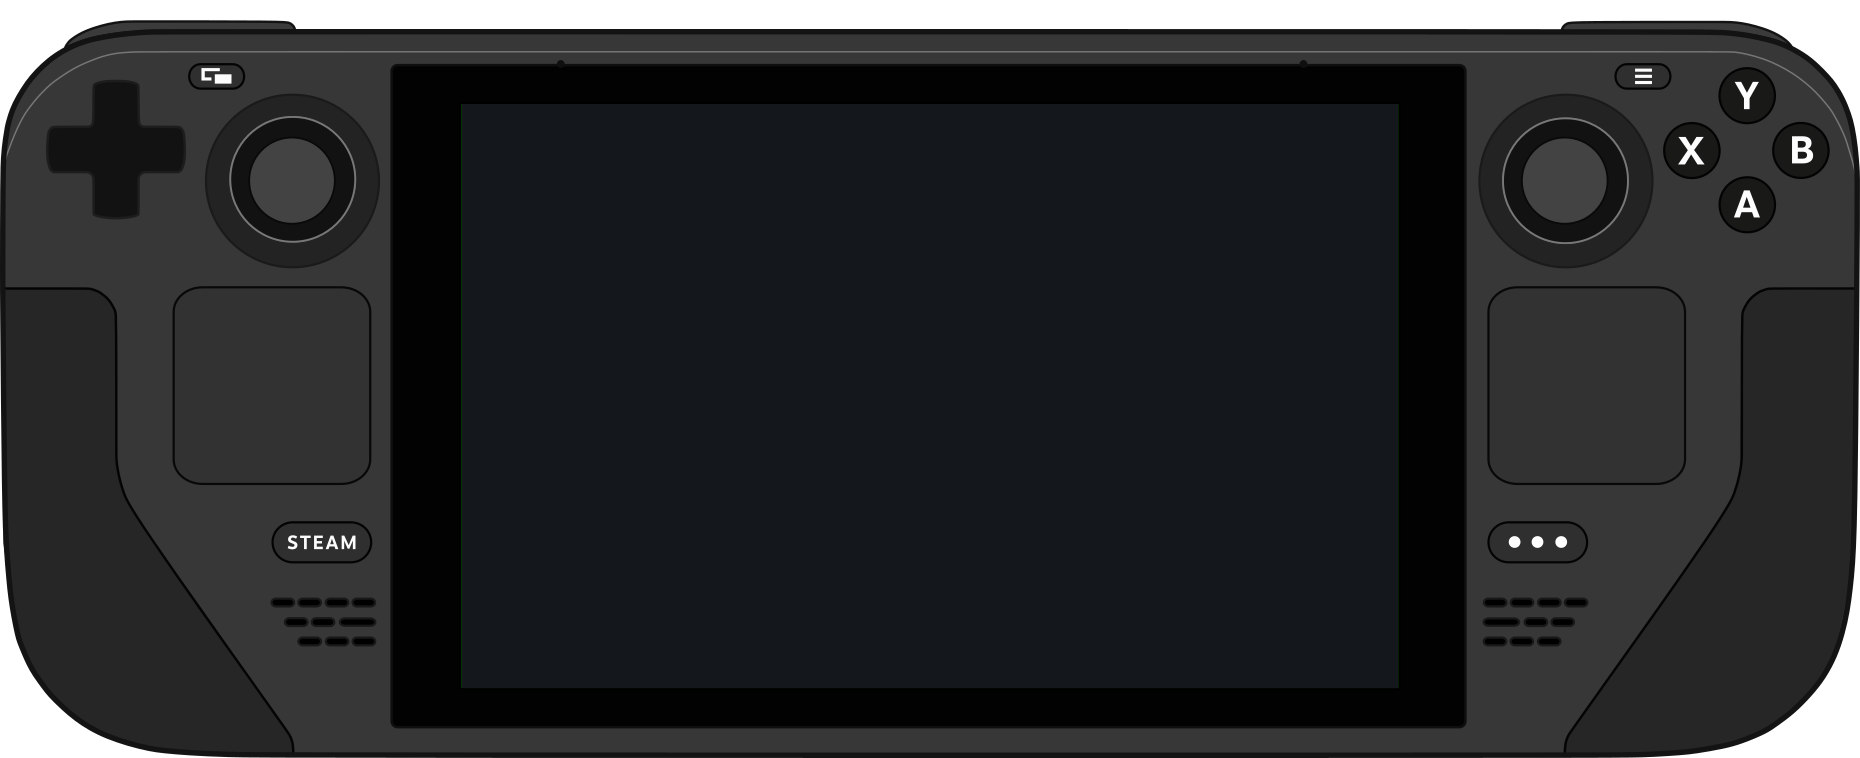
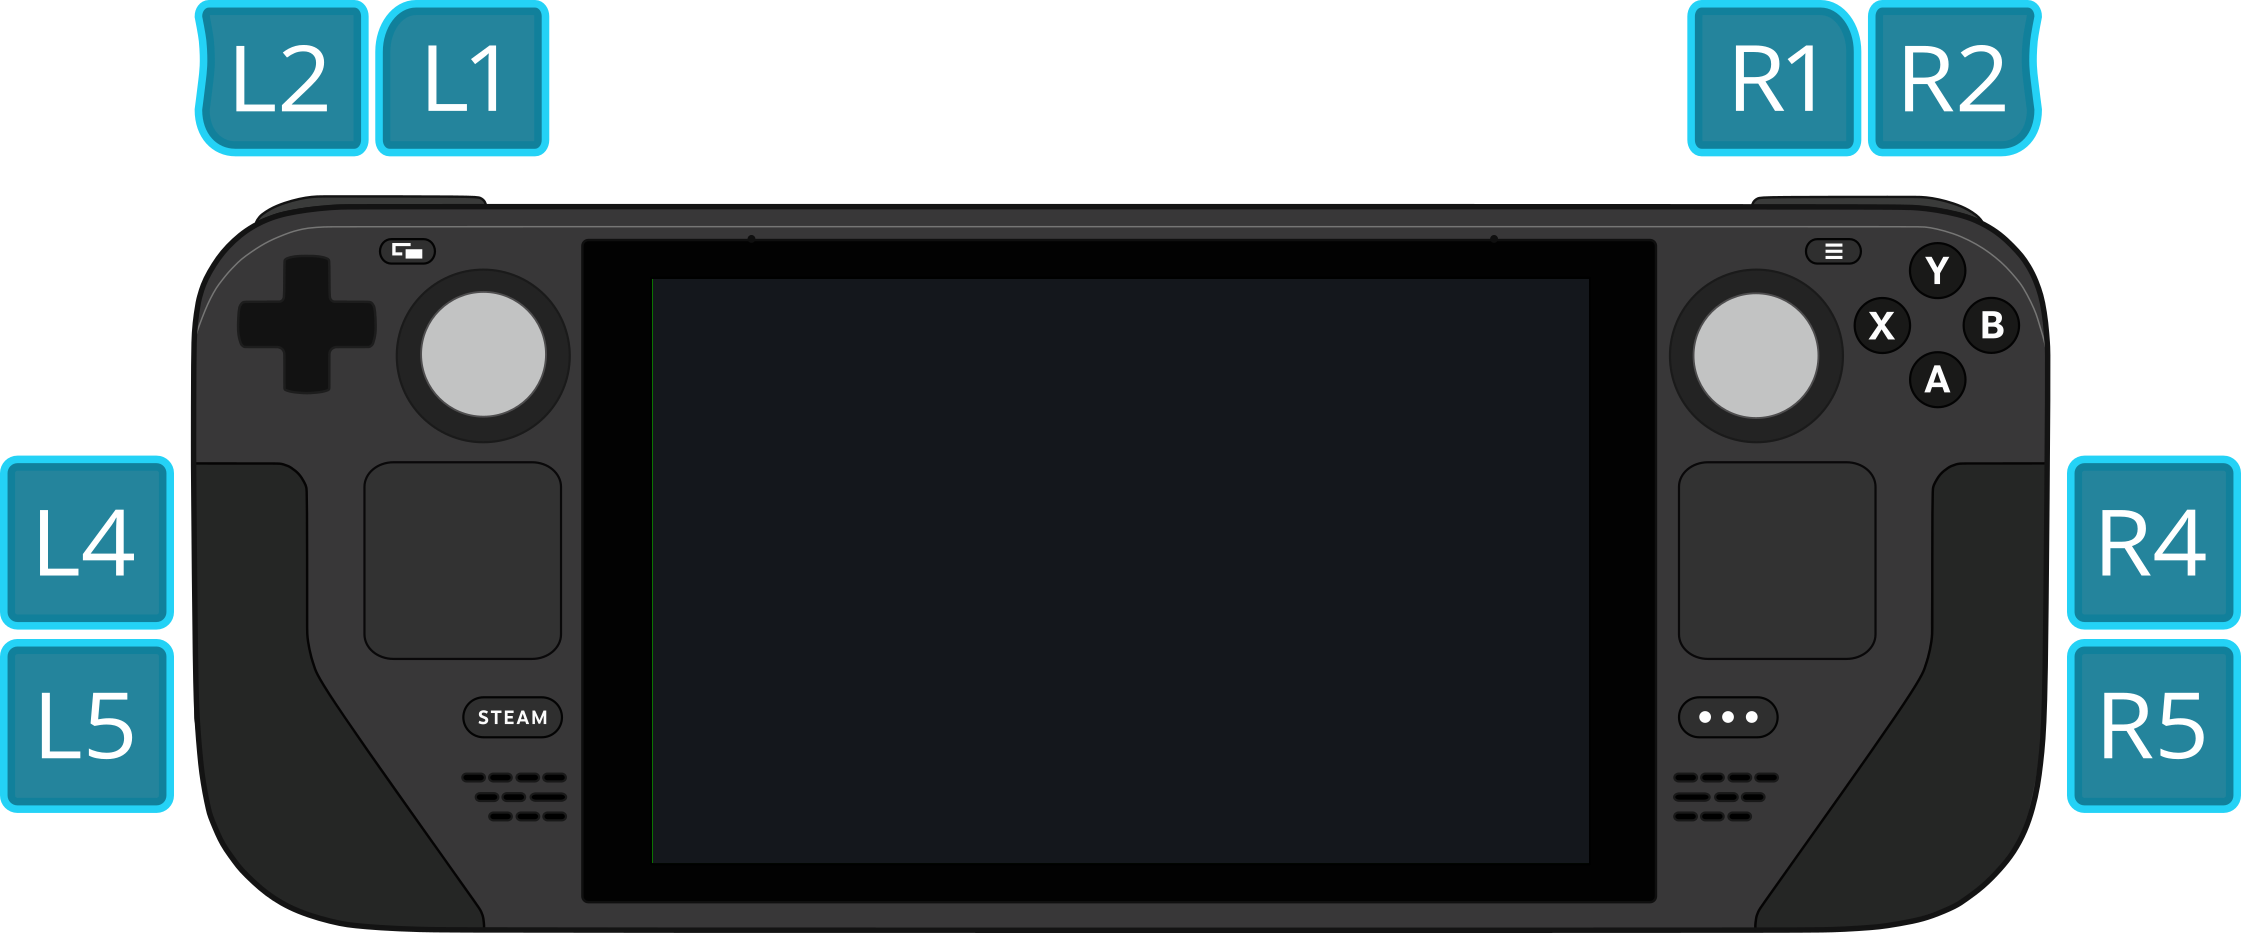
Deck preview: draw the rear paddles, on the overlay that places them
The plain VSCView overlay labels L4/L5/R4/R5 but parks them OFF the
canvas: x=-149 for the left pair and x=1879 for the right, on a body
1860 wide. Building on it, the only honest option was to omit them,
which is what the last commit did.

The pack ships a second composition that does place them. Switch the
Deck to it: "Steam Deck Alternative Overlay.svg" for geometry and
"Steam Deck Compact.png" for the body. Nothing in either filename says
they are a pair; the aspect ratios do, to four decimals (593.72x247.22
mm = 2.4016, 2241x933 = 2.4020). Every element lands in bounds on the
wider canvas, and the four paddles sit on the dedicated labeled tiles
the Compact view carries for controls with no front-facing position.

Paddle target names follow the translator rather than Valve's labels.
PhysicalSlotResolver maps button_back_right to Paddle1,
button_back_left to Paddle2, and the _upper pair to Paddle3/Paddle4,
so R4=Paddle1, L4=Paddle2, R5=Paddle3, L5=Paddle4.

ArtTargetFor now strips the "Gamepad " family prefix. Paddles are the
one target the manifest reports prefixed, because that is the
descriptor the mapping grid stores, so without the strip the four
paddles would draw and never light. That is the decorative-control
failure mode, and it would not have shown up in any build or test.

Tests: paddle coverage, an in-bounds assertion aimed squarely at the
off-canvas trap, and the prefix strip.

diff --git a/PadForge.App/Models2D/ControllerOverlayLayout.cs b/PadForge.App/Models2D/ControllerOverlayLayout.cs
@@ -165,8 +165,8 @@ public static class XboxSeriesXLayout
         new("XBSeries_HomeButton.png", "ButtonGuide", OverlayElementType.Button, 701, 204, 132, 125, "0.1515,0.0720 0.0606,0.1680 0.0000,0.2800 0.0000,0.7120 0.0606,0.8240 0.1742,0.9360 0.2803,0.9920 0.7121,0.9920 0.8485,0.9120 0.9318,0.8240 0.9924,0.7120 0.9924,0.2800 0.9318,0.1680 0.8182,0.0560 0.7121,0.0000 0.2803,0.0000"),
         new("XBSeries_LeftStick.png", "LeftThumbRing", OverlayElementType.StickRing, 264, 355, 177, 176, "0.2768,0.0057 0.1751,0.0625 0.0791,0.1534 0.0000,0.2898 0.0000,0.7045 0.1525,0.9148 0.2768,0.9886 0.7175,0.9886 0.8192,0.9318 0.9153,0.8409 0.9944,0.7045 0.9944,0.2898 0.8418,0.0795 0.7175,0.0057"),
         new("XBSeries_RightStick.png", "RightThumbRing", OverlayElementType.StickRing, 886, 586, 180, 170, "0.1556,0.0765 0.0611,0.1765 0.0000,0.2941 0.0000,0.7000 0.0833,0.8471 0.1556,0.9176 0.2889,0.9941 0.7056,0.9941 0.8667,0.8941 0.9333,0.8176 0.9944,0.7000 0.9944,0.2941 0.9111,0.1471 0.8389,0.0765 0.7056,0.0000 0.2889,0.0000"),
-        new("XBSeries_LeftStick_Click.png", "LeftThumbButton", OverlayElementType.StickClick, 264, 355, 177, 176, "0.1222,0.0706 0.0667,0.1294 0.0000,0.2882 0.0000,0.7059 0.0611,0.8588 0.1278,0.9294 0.1667,0.9294 0.2833,0.9941 0.7111,0.9941 0.8722,0.9235 0.9278,0.8647 0.9944,0.7059 0.9944,0.2882 0.9278,0.1294 0.8667,0.0647 0.8278,0.0647 0.7111,0.0000 0.2833,0.0000"),
-        new("XBSeries_LeftStick_Click.png", "RightThumbButton", OverlayElementType.StickClick, 886, 586, 180, 170, "0.1222,0.0706 0.0667,0.1294 0.0000,0.2882 0.0000,0.7059 0.0611,0.8588 0.1278,0.9294 0.1667,0.9294 0.2833,0.9941 0.7111,0.9941 0.8722,0.9235 0.9278,0.8647 0.9944,0.7059 0.9944,0.2882 0.9278,0.1294 0.8667,0.0647 0.8278,0.0647 0.7111,0.0000 0.2833,0.0000"),
+        new("XBSeries_LeftStick_Click.png", "LeftThumbButton", OverlayElementType.StickClick, 264, 355, 177, 176, "0.1222,0.0706 0.0667,0.1294 0.0000,0.2882 0.0000,0.7059 0.0611,0.8588 0.1278,0.9294 0.1667,0.9294 0.2833,0.9941 0.7111,0.9941 0.8722,0.9235 0.9278,0.8647 0.9944,0.7059 0.9944,0.2882 0.9333,0.1353 0.8667,0.0647 0.8278,0.0647 0.7111,0.0000 0.2833,0.0000"),
+        new("XBSeries_LeftStick_Click.png", "RightThumbButton", OverlayElementType.StickClick, 886, 586, 180, 170, "0.1222,0.0706 0.0667,0.1294 0.0000,0.2882 0.0000,0.7059 0.0611,0.8588 0.1278,0.9294 0.1667,0.9294 0.2833,0.9941 0.7111,0.9941 0.8722,0.9235 0.9278,0.8647 0.9944,0.7059 0.9944,0.2882 0.9333,0.1353 0.8667,0.0647 0.8278,0.0647 0.7111,0.0000 0.2833,0.0000"),
         new("XBSeries_D-PAD_Up.png", "DPadUp", OverlayElementType.Button, 520, 562, 76, 69, "0.0000,0.1159 0.0000,0.9855 0.9868,0.9855 0.9868,0.1159 0.7895,0.0000 0.1974,0.0000"),
         new("XBSeries_D-PAD_Down.png", "DPadDown", OverlayElementType.Button, 524, 689, 69, 69, "0.0000,0.0000 0.0145,0.9565 0.1014,0.9855 0.8986,0.9855 0.9855,0.9420 0.9855,0.0000"),
         new("XBSeries_D-PAD_Left.png", "DPadLeft", OverlayElementType.Button, 443, 628, 80, 63, "0.0000,0.1746 0.0000,0.7937 0.1000,0.9841 0.9875,0.9841 0.9875,0.0000 0.1000,0.0000"),
@@ -211,37 +211,41 @@ public static class SwitchProLayout
 
 public static class SteamDeckLayout
 {
-    public const int BaseWidth = 1860;
-    public const int BaseHeight = 758;
+    public const int BaseWidth = 2241;
+    public const int BaseHeight = 933;
     public const string BasePath = "2DModels/STEAMDECK/SD_base.png";
     public const double StickMaxTravel = 22;
 
     public static readonly OverlayElement[] Overlays =
     {
-        new("SD_L2.png", "LeftTrigger", OverlayElementType.Trigger, 78, 1, 188, 37, "0.0000,0.9730 0.0532,0.9730 0.1543,0.7568 0.2553,0.6486 0.9947,0.6486 0.9947,0.4054 0.5585,0.0000 0.2021,0.0000 0.1330,0.1622 0.0426,0.5135 0.0000,0.7568"),
-        new("SD_R2.png", "RightTrigger", OverlayElementType.Trigger, 1592, 2, 188, 37, "0.0000,0.4054 0.0000,0.6486 0.7394,0.6486 0.8404,0.7568 0.9415,0.9730 0.9947,0.9730 0.9947,0.7568 0.9521,0.5135 0.8617,0.1622 0.7926,0.0000 0.4362,0.0000"),
-        new("SD_L1.png", "LeftShoulder", OverlayElementType.Button, 75, 21, 210, 26, "0.0000,0.9615 0.0619,0.9615 0.1571,0.6923 0.3476,0.5000 0.9952,0.5000 0.9952,0.0000 0.1429,0.0000 0.0095,0.5000"),
-        new("SD_R1.png", "RightShoulder", OverlayElementType.Button, 1572, 22, 209, 25, "0.0000,0.0000 0.0000,0.5200 0.7225,0.5600 0.8469,0.7200 0.9330,0.9600 0.9952,0.9600 0.9904,0.5600 0.8517,0.0000"),
-        new("SD_Face_Button.png", "ButtonA", OverlayElementType.Button, 1720, 178, 55, 54, "0.1273,0.0370 0.0000,0.1852 0.0000,0.7963 0.0182,0.8333 0.1818,0.9815 0.8000,0.9815 0.8545,0.9444 0.9818,0.7963 0.9818,0.1852 0.9636,0.1481 0.8000,0.0000 0.1818,0.0000"),
-        new("SD_Face_Button.png", "ButtonB", OverlayElementType.Button, 1773, 124, 55, 54, "0.1273,0.0370 0.0000,0.1852 0.0000,0.7963 0.0182,0.8333 0.1818,0.9815 0.8000,0.9815 0.8545,0.9444 0.9818,0.7963 0.9818,0.1852 0.9636,0.1481 0.8000,0.0000 0.1818,0.0000"),
-        new("SD_Face_Button.png", "ButtonX", OverlayElementType.Button, 1664, 124, 55, 54, "0.1273,0.0370 0.0000,0.1852 0.0000,0.7963 0.0182,0.8333 0.1818,0.9815 0.8000,0.9815 0.8545,0.9444 0.9818,0.7963 0.9818,0.1852 0.9636,0.1481 0.8000,0.0000 0.1818,0.0000"),
-        new("SD_Face_Button.png", "ButtonY", OverlayElementType.Button, 1719, 68, 55, 54, "0.1273,0.0370 0.0000,0.1852 0.0000,0.7963 0.0182,0.8333 0.1818,0.9815 0.8000,0.9815 0.8545,0.9444 0.9818,0.7963 0.9818,0.1852 0.9636,0.1481 0.8000,0.0000 0.1818,0.0000"),
-        new("SD_D-PAD_Up.png", "DPadUp", OverlayElementType.Button, 90, 81, 51, 68, "0.0196,0.0000 0.0000,0.0147 0.0000,0.7206 0.3529,0.9853 0.6275,0.9853 0.9804,0.7206 0.9804,0.0147 0.9608,0.0000"),
-        new("SD_D-PAD_Down.png", "DPadDown", OverlayElementType.Button, 90, 150, 52, 68, "0.3654,0.0000 0.0000,0.2794 0.0000,0.9706 0.0192,0.9853 0.9615,0.9853 0.9808,0.9706 0.9808,0.2794 0.6154,0.0000"),
-        new("SD_D-PAD_Left.png", "DPadLeft", OverlayElementType.Button, 47, 123, 69, 53, "0.0000,0.0377 0.0000,0.9245 0.0435,0.9811 0.7101,0.9811 0.9855,0.6226 0.9855,0.3585 0.7101,0.0000 0.0290,0.0000"),
-        new("SD_D-PAD_Right.png", "DPadRight", OverlayElementType.Button, 116, 123, 69, 53, "0.0000,0.3585 0.0000,0.6226 0.2754,0.9811 0.9420,0.9811 0.9855,0.9245 0.9855,0.0377 0.9565,0.0000 0.2754,0.0000"),
-        new("SD_View-Menu_Button.png", "ButtonBack", OverlayElementType.Button, 193, 64, 47, 24, "0.0000,0.0000 0.0000,0.9583 0.9787,0.9583 0.9787,0.0000"),
-        new("SD_View-Menu_Button.png", "ButtonStart", OverlayElementType.Button, 1619, 64, 47, 24, "0.0000,0.0000 0.0000,0.9583 0.9787,0.9583 0.9787,0.0000"),
-        new("SD_Guide-QuickMenu_Button.png", "ButtonGuide", OverlayElementType.Button, 277, 523, 91, 40, "0.0000,0.1250 0.0000,0.8500 0.0549,0.9750 0.9341,0.9750 0.9890,0.8500 0.9890,0.1250 0.9341,0.0000 0.0549,0.0000"),
-        new("SD_Guide-QuickMenu_Button.png", "ButtonQuickAccess", OverlayElementType.Button, 1492, 523, 91, 40, "0.0000,0.1250 0.0000,0.8500 0.0549,0.9750 0.9341,0.9750 0.9890,0.8500 0.9890,0.1250 0.9341,0.0000 0.0549,0.0000"),
-        new("SD_LeftAnalogStick.png", "LeftThumbRing", OverlayElementType.StickRing, 230, 117, 125, 125, "0.2720,0.0000 0.1120,0.1040 0.0000,0.2720 0.0000,0.7200 0.1040,0.8800 0.2720,0.9920 0.7200,0.9920 0.8320,0.9280 0.9280,0.8320 0.9920,0.7200 0.9920,0.2720 0.8880,0.1120 0.7200,0.0000"),
-        new("SD_RightAnalogStick.png", "RightThumbRing", OverlayElementType.StickRing, 1503, 118, 125, 125, "0.2720,0.0000 0.1120,0.1040 0.0000,0.2720 0.0000,0.7200 0.1040,0.8800 0.2720,0.9920 0.7200,0.9920 0.8320,0.9280 0.9280,0.8320 0.9920,0.7200 0.9920,0.2720 0.8880,0.1120 0.7200,0.0000"),
-        new("SD_Joystick_Click.png", "LeftThumbButton", OverlayElementType.StickClick, 230, 117, 125, 125, "0.2720,0.0000 0.1600,0.0640 0.0640,0.1600 0.0000,0.2720 0.0000,0.7200 0.0640,0.8320 0.1600,0.9280 0.2720,0.9920 0.7200,0.9920 0.8400,0.9200 0.9200,0.8400 0.9920,0.7200 0.9920,0.2720 0.9200,0.1520 0.8400,0.0720 0.7200,0.0000"),
-        new("SD_Joystick_Click.png", "RightThumbButton", OverlayElementType.StickClick, 1503, 118, 125, 125, "0.2720,0.0000 0.1600,0.0640 0.0640,0.1600 0.0000,0.2720 0.0000,0.7200 0.0640,0.8320 0.1600,0.9280 0.2720,0.9920 0.7200,0.9920 0.8400,0.9200 0.9200,0.8400 0.9920,0.7200 0.9920,0.2720 0.9200,0.1520 0.8400,0.0720 0.7200,0.0000"),
-        new("SD_Touchpad_Click.png", "LeftTouchpadClick", OverlayElementType.Button, 174, 287, 197, 197, "0.0203,0.0000 0.0000,0.0203 0.0000,0.9746 0.0203,0.9949 0.9746,0.9949 0.9949,0.9746 0.9949,0.0203 0.9746,0.0000"),
-        new("", "LeftTouchpad", OverlayElementType.Touchpad, 174, 287, 197, 197),
-        new("SD_Touchpad_Click.png", "RightTouchpadClick", OverlayElementType.Button, 1488, 287, 197, 197, "0.0203,0.0000 0.0000,0.0203 0.0000,0.9746 0.0203,0.9949 0.9746,0.9949 0.9949,0.9746 0.9949,0.0203 0.9746,0.0000"),
-        new("", "RightTouchpad", OverlayElementType.Touchpad, 1488, 287, 197, 197),
+        new("SD_L2.png", "LeftTrigger", OverlayElementType.Trigger, 268, 176, 188, 37, "0.0000,0.9730 0.0532,0.9730 0.1543,0.7568 0.2553,0.6486 0.9947,0.6486 0.9947,0.4054 0.5585,0.0000 0.2021,0.0000 0.1330,0.1622 0.0426,0.5135 0.0000,0.7568"),
+        new("SD_R2.png", "RightTrigger", OverlayElementType.Trigger, 1782, 177, 188, 37, "0.0000,0.4054 0.0000,0.6486 0.7394,0.6486 0.8404,0.7568 0.9415,0.9730 0.9947,0.9730 0.9947,0.7568 0.9521,0.5135 0.8617,0.1622 0.7926,0.0000 0.4362,0.0000"),
+        new("SD_L1.png", "LeftShoulder", OverlayElementType.Button, 266, 196, 210, 26, "0.0000,0.9615 0.0619,0.9615 0.1571,0.6923 0.3476,0.5000 0.9952,0.5000 0.9952,0.0000 0.1429,0.0000 0.0095,0.5000"),
+        new("SD_R1.png", "RightShoulder", OverlayElementType.Button, 1762, 197, 209, 25, "0.0000,0.0000 0.0000,0.5200 0.7225,0.5600 0.8469,0.7200 0.9330,0.9600 0.9952,0.9600 0.9904,0.5600 0.8517,0.0000"),
+        new("SD_Face_Button.png", "ButtonA", OverlayElementType.Button, 1910, 352, 55, 54, "0.1273,0.0370 0.0000,0.1852 0.0000,0.7963 0.0182,0.8333 0.1818,0.9815 0.8000,0.9815 0.8545,0.9444 0.9818,0.7963 0.9818,0.1852 0.9636,0.1481 0.8000,0.0000 0.1818,0.0000"),
+        new("SD_Face_Button.png", "ButtonB", OverlayElementType.Button, 1964, 298, 55, 54, "0.1273,0.0370 0.0000,0.1852 0.0000,0.7963 0.0182,0.8333 0.1818,0.9815 0.8000,0.9815 0.8545,0.9444 0.9818,0.7963 0.9818,0.1852 0.9636,0.1481 0.8000,0.0000 0.1818,0.0000"),
+        new("SD_Face_Button.png", "ButtonX", OverlayElementType.Button, 1855, 298, 55, 54, "0.1273,0.0370 0.0000,0.1852 0.0000,0.7963 0.0182,0.8333 0.1818,0.9815 0.8000,0.9815 0.8545,0.9444 0.9818,0.7963 0.9818,0.1852 0.9636,0.1481 0.8000,0.0000 0.1818,0.0000"),
+        new("SD_Face_Button.png", "ButtonY", OverlayElementType.Button, 1910, 244, 55, 54, "0.1273,0.0370 0.0000,0.1852 0.0000,0.7963 0.0182,0.8333 0.1818,0.9815 0.8000,0.9815 0.8545,0.9444 0.9818,0.7963 0.9818,0.1852 0.9636,0.1481 0.8000,0.0000 0.1818,0.0000"),
+        new("SD_D-PAD_Up.png", "DPadUp", OverlayElementType.Button, 282, 256, 51, 68, "0.0196,0.0000 0.0000,0.0147 0.0000,0.7206 0.3529,0.9853 0.6275,0.9853 0.9804,0.7206 0.9804,0.0147 0.9608,0.0000"),
+        new("SD_D-PAD_Down.png", "DPadDown", OverlayElementType.Button, 281, 325, 52, 68, "0.3654,0.0000 0.0000,0.2794 0.0000,0.9706 0.0192,0.9853 0.9615,0.9853 0.9808,0.9706 0.9808,0.2794 0.6154,0.0000"),
+        new("SD_D-PAD_Left.png", "DPadLeft", OverlayElementType.Button, 238, 298, 69, 53, "0.0000,0.0377 0.0000,0.9245 0.0435,0.9811 0.7101,0.9811 0.9855,0.6226 0.9855,0.3585 0.7101,0.0000 0.0290,0.0000"),
+        new("SD_D-PAD_Right.png", "DPadRight", OverlayElementType.Button, 307, 298, 69, 53, "0.0000,0.3585 0.0000,0.6226 0.2754,0.9811 0.9420,0.9811 0.9855,0.9245 0.9855,0.0377 0.9565,0.0000 0.2754,0.0000"),
+        new("SD_View-Menu_Button.png", "ButtonBack", OverlayElementType.Button, 384, 239, 47, 24, "0.0000,0.0000 0.0000,0.9583 0.9787,0.9583 0.9787,0.0000"),
+        new("SD_View-Menu_Button.png", "ButtonStart", OverlayElementType.Button, 1810, 239, 47, 24, "0.0000,0.0000 0.0000,0.9583 0.9787,0.9583 0.9787,0.0000"),
+        new("SD_Guide-QuickMenu_Button.png", "ButtonGuide", OverlayElementType.Button, 467, 697, 91, 40, "0.0000,0.1250 0.0000,0.8500 0.0549,0.9750 0.9341,0.9750 0.9890,0.8500 0.9890,0.1250 0.9341,0.0000 0.0549,0.0000"),
+        new("SD_Guide-QuickMenu_Button.png", "ButtonQuickAccess", OverlayElementType.Button, 1683, 697, 91, 40, "0.0000,0.1250 0.0000,0.8500 0.0549,0.9750 0.9341,0.9750 0.9890,0.8500 0.9890,0.1250 0.9341,0.0000 0.0549,0.0000"),
+        new("SD_LeftAnalogStick.png", "LeftThumbRing", OverlayElementType.StickRing, 421, 292, 125, 125, "0.2720,0.0000 0.1120,0.1040 0.0000,0.2720 0.0000,0.7200 0.1040,0.8800 0.2720,0.9920 0.7200,0.9920 0.8320,0.9280 0.9280,0.8320 0.9920,0.7200 0.9920,0.2720 0.8880,0.1120 0.7200,0.0000"),
+        new("SD_RightAnalogStick.png", "RightThumbRing", OverlayElementType.StickRing, 1694, 293, 125, 125, "0.2720,0.0000 0.1120,0.1040 0.0000,0.2720 0.0000,0.7200 0.1040,0.8800 0.2720,0.9920 0.7200,0.9920 0.8320,0.9280 0.9280,0.8320 0.9920,0.7200 0.9920,0.2720 0.8880,0.1120 0.7200,0.0000"),
+        new("SD_Joystick_Click.png", "LeftThumbButton", OverlayElementType.StickClick, 421, 292, 125, 125, "0.2720,0.0000 0.1600,0.0640 0.0640,0.1600 0.0000,0.2720 0.0000,0.7200 0.0640,0.8320 0.1600,0.9280 0.2720,0.9920 0.7200,0.9920 0.8400,0.9200 0.9200,0.8400 0.9920,0.7200 0.9920,0.2720 0.9200,0.1520 0.8400,0.0720 0.7200,0.0000"),
+        new("SD_Joystick_Click.png", "RightThumbButton", OverlayElementType.StickClick, 1694, 293, 125, 125, "0.2720,0.0000 0.1600,0.0640 0.0640,0.1600 0.0000,0.2720 0.0000,0.7200 0.0640,0.8320 0.1600,0.9280 0.2720,0.9920 0.7200,0.9920 0.8400,0.9200 0.9200,0.8400 0.9920,0.7200 0.9920,0.2720 0.9200,0.1520 0.8400,0.0720 0.7200,0.0000"),
+        new("SD_Touchpad_Click.png", "LeftTouchpadClick", OverlayElementType.Button, 364, 462, 197, 197, "0.0203,0.0000 0.0000,0.0203 0.0000,0.9746 0.0203,0.9949 0.9746,0.9949 0.9949,0.9746 0.9949,0.0203 0.9746,0.0000"),
+        new("", "LeftTouchpad", OverlayElementType.Touchpad, 364, 462, 197, 197),
+        new("SD_Touchpad_Click.png", "RightTouchpadClick", OverlayElementType.Button, 1679, 462, 197, 197, "0.0203,0.0000 0.0000,0.0203 0.0000,0.9746 0.0203,0.9949 0.9746,0.9949 0.9949,0.9746 0.9949,0.0203 0.9746,0.0000"),
+        new("", "RightTouchpad", OverlayElementType.Touchpad, 1679, 462, 197, 197),
+        new("SD_BackButton.png", "Paddle1", OverlayElementType.Button, 2069, 461, 125, 125, "0.0320,0.0000 0.0000,0.0320 0.0000,0.9600 0.0320,0.9920 0.9600,0.9920 0.9920,0.9600 0.9920,0.0320 0.9600,0.0000"),
+        new("SD_BackButton.png", "Paddle2", OverlayElementType.Button, 42, 462, 125, 125, "0.0320,0.0000 0.0000,0.0320 0.0000,0.9600 0.0320,0.9920 0.9600,0.9920 0.9920,0.9600 0.9920,0.0320 0.9600,0.0000"),
+        new("SD_BackButton.png", "Paddle3", OverlayElementType.Button, 2069, 603, 125, 125, "0.0320,0.0000 0.0000,0.0320 0.0000,0.9600 0.0320,0.9920 0.9600,0.9920 0.9920,0.9600 0.9920,0.0320 0.9600,0.0000"),
+        new("SD_BackButton.png", "Paddle4", OverlayElementType.Button, 42, 602, 125, 125, "0.0320,0.0000 0.0000,0.0320 0.0000,0.9600 0.0320,0.9920 0.9600,0.9920 0.9920,0.9600 0.9920,0.0320 0.9600,0.0000"),
     };
 }
 

diff --git a/tools/overlay_positions.py b/tools/overlay_positions.py
@@ -1546,19 +1546,32 @@ def process_steamdeck():
     every press overlay is fit_overlay_to_bbox-sized to it. No composite
     refinement pass is needed.
 
-    The Deck ships ONE face-button cap and ONE trackpad-click overlay,
-    reused at each lettered/side position exactly like the DS4 flow
-    reuses DS4_Face_Button.png. L4/L5/R4/R5 are rear paddles: the SVG
-    labels them (they are drawn on the rear-view layer) but they do not
-    appear on the front render, so they are deliberately not emitted --
-    a callout would point at empty body plastic.
+    The Deck ships ONE face-button cap, ONE trackpad-click overlay and
+    ONE rear-paddle overlay, reused at each lettered/side position
+    exactly like the DS4 flow reuses DS4_Face_Button.png.
 
-    The shipped base is the pack's VSCView overlay with its chroma-green
-    screen keyed to a dark panel; the green is a literal green screen,
-    keyed for its authored purpose, not repainted art.
+    THE ALTERNATIVE OVERLAY IS THE ONE TO USE, not the plain VSCView
+    overlay, because it is the composition that places the rear
+    paddles. In the plain overlay L4/L5/R4/R5 are labeled but parked
+    off-canvas (L4/L5 at x=-149, R4/R5 at x=1879 on an 1860-wide
+    canvas), so a layout built on it can only omit them. The
+    Alternative widens the canvas and brings all four on-body. Its
+    raster is 'Steam Deck Compact.png': the two agree on aspect to four
+    decimals (593.72x247.22mm = 2.4016, 2241x933 = 2.4020), which is
+    what identifies them as a pair, since neither filename says so.
+
+    The shipped base is that Compact render with its chroma-green screen
+    keyed to a dark panel; the green is a literal green screen, keyed
+    for its authored purpose, not repainted art.
+
+    Paddle target names follow the translator, not Valve's labels:
+    PhysicalSlotResolver maps button_back_right -> Paddle1,
+    button_back_left -> Paddle2, button_back_right_upper -> Paddle3,
+    button_back_left_upper -> Paddle4. So R4=Paddle1, L4=Paddle2,
+    R5=Paddle3, L5=Paddle4.
     """
     svg_path = os.path.join(ASSET_PACK, "Steam Deck Images",
-        "Theme SVG", "Black", "Steam Deck VSCView Overlay.svg")
+        "Theme SVG", "Steam Deck Alternative Overlay.svg")
 
     root = etree.parse(svg_path).getroot()
     base = cv2.imread(os.path.join(MODELS_DIR, "STEAMDECK", "SD_base.png"), cv2.IMREAD_UNCHANGED)
@@ -1635,6 +1648,11 @@ def process_steamdeck():
         results.append(("SD_Touchpad_Click.png", side + "TouchpadClick", "Button", pos[0], pos[1], pos[2], pos[3]))
         results.append(("", side + "Touchpad", "Touchpad", pos[0], pos[1], pos[2], pos[3]))
         print(f"  {side + 'TouchpadClick':20s} ({lbl:20s}) -> ({pos[0]:4d}, {pos[1]:4d}) {pos[2]:4d}x{pos[3]:3d}")
+
+    # Rear paddles, on-body only in this overlay (see the docstring).
+    for lbl, target in [("R4", "Paddle1"), ("L4", "Paddle2"),
+                        ("R5", "Paddle3"), ("L5", "Paddle4")]:
+        add(lbl, "SD_BackButton.png", target, "Button")
 
     return {"base_width": base_w, "base_height": base_h, "results": results}
 

diff --git a/PadForge.Tests/WorkshopControllerPreviewLayoutTests.cs b/PadForge.Tests/WorkshopControllerPreviewLayoutTests.cs
@@ -87,6 +87,10 @@ namespace PadForge.Tests
         [InlineData("ButtonGuide")]
         [InlineData("LeftTouchpad")]
         [InlineData("RightTouchpad")]
+        [InlineData("Paddle1")]
+        [InlineData("Paddle2")]
+        [InlineData("Paddle3")]
+        [InlineData("Paddle4")]
         public void DeckCoversTheControlSet(string target)
             => Assert.Contains(SteamDeckLayout.Overlays,
                                o => string.Equals(o.TargetName, target, StringComparison.Ordinal));
@@ -107,6 +111,36 @@ namespace PadForge.Tests
 
         /// <summary>Valve tags must reach Valve bodies. Before this, every
         /// one of them fell through to the Xbox One S shape.</summary>
+        /// <summary>The Deck's four rear paddles have no front-facing
+        /// position, so they are drawn on the Compact overlay's dedicated
+        /// labeled tiles. The plain VSCView overlay parks them OFF canvas
+        /// (x=-149 and x=1879 on an 1860-wide body), which is why the
+        /// layout is built on the Compact/Alternative pair instead.</summary>
+        [Fact]
+        public void DeckPaddlesAreOnTheBodyNotParkedOffCanvas()
+        {
+            var paddles = SteamDeckLayout.Overlays
+                .Where(o => o.TargetName.StartsWith("Paddle", StringComparison.Ordinal))
+                .ToList();
+            Assert.Equal(4, paddles.Count);
+            Assert.All(paddles, p =>
+            {
+                Assert.InRange(p.X, 0, SteamDeckLayout.BaseWidth - p.Width);
+                Assert.InRange(p.Y, 0, SteamDeckLayout.BaseHeight - p.Height);
+            });
+        }
+
+        /// <summary>The paddle descriptor is the one target the translator
+        /// reports with its family prefix. Without the strip, the Deck's
+        /// paddles draw but never light.</summary>
+        [Theory]
+        [InlineData("Gamepad Paddle1", "Paddle1")]
+        [InlineData("Gamepad Paddle4", "Paddle4")]
+        [InlineData("ButtonA", "ButtonA")]
+        [InlineData("LeftThumbAxisX", "LeftThumbRing")]
+        public void PaddleTargetsReachTheArt(string target, string expected)
+            => Assert.Equal(expected, PadForge.Views.WorkshopBrowseDialog.ArtTargetFor(target));
+
         [Theory]
         [InlineData("controller_neptune", "STEAMDECK")]
         [InlineData("controller_steamcontroller_gordon", "STEAMCONTROLLER")]

diff --git a/PadForge.App/Views/WorkshopBrowseDialog.xaml.cs b/PadForge.App/Views/WorkshopBrowseDialog.xaml.cs
@@ -1694,6 +1694,13 @@ namespace PadForge.Views
         internal static string ArtTargetFor(string target)
         {
             if (string.IsNullOrWhiteSpace(target)) return null;
+            // The paddle family is the one target the translator reports
+            // WITH the family prefix ("Gamepad Paddle1"), because that is
+            // the descriptor the mapping grid stores. Art TargetNames are
+            // bare, so without this the Steam Deck's four rear paddles
+            // could never match the body that now draws them.
+            if (target.StartsWith("Gamepad ", StringComparison.OrdinalIgnoreCase))
+                target = target.Substring("Gamepad ".Length);
             if (target.StartsWith("LeftThumbAxis", StringComparison.OrdinalIgnoreCase))
                 return "LeftThumbRing";
             if (target.StartsWith("RightThumbAxis", StringComparison.OrdinalIgnoreCase))
